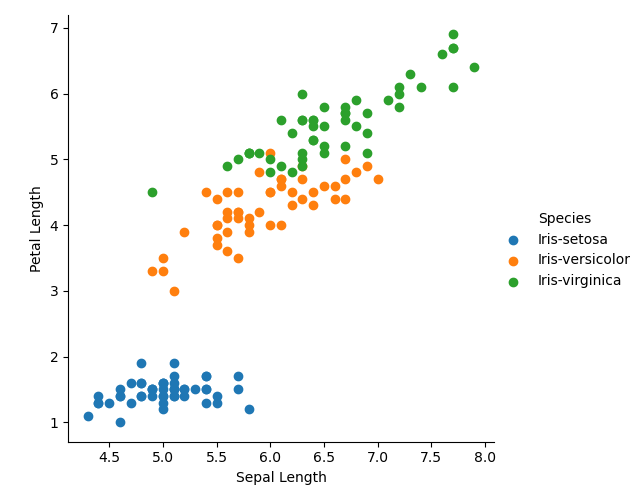
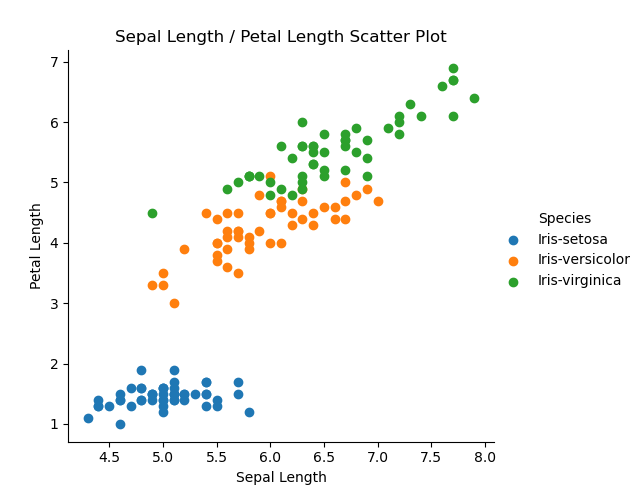
Plot Titles

diff --git a/analysis.py b/analysis.py
@@ -103,16 +103,28 @@ def histograms():
 def scatterPlots():
     
     sns.FacetGrid(df,hue="Species", height=5).map(plt.scatter, "Sepal Length", "Sepal Width" ).add_legend()
+    plt.title("Sepal Length / Sepal Width Scatter Plot")
+    plt.subplots_adjust(top=0.9)
     plt.savefig("./plots/SLSWscatterPlot.png")
-    sns.FacetGrid(df,hue="Species", height=5).map(plt.scatter, "Petal Length", "Petal Width" ).add_legend()
+
+    sns.FacetGrid(df,hue="Species", height=5).map(plt.scatter, "Petal Length", "Petal Width" ).add_legend() 
+    plt.title("Petal Length / Petal Width Scatter Plot")     
+    plt.subplots_adjust(top=0.9) 
     plt.savefig("./plots/PLPWscatterPlot.png")
+
     sns.FacetGrid(df,hue="Species", height=5).map(plt.scatter, "Sepal Length", "Petal Length").add_legend()
-    plt.savefig("./plots/SLPLscatterPlot.png")
+    plt.title("Sepal Length / Petal Length Scatter Plot")
+    plt.subplots_adjust(top=0.9)
+    plt.savefig("./plots/SLPLscatterPlot.png")  
+  
     sns.FacetGrid(df,hue="Species", height=5).map(plt.scatter, "Sepal Width" , "Petal Width" ).add_legend()
+    plt.title("Sepal Width / Petal Width Scatter Plot")
+    plt.subplots_adjust(top=0.9)
     plt.savefig("./plots/SWPWscatterPlot.png")
 
     sns.pairplot(df,hue="Species",height=3)
     plt.savefig("./plots/scatterPlot.png")
+
     plt.show()
 
 ##########################################################################
@@ -122,6 +134,7 @@ def distPlot():
     sns.histplot( df["Sepal Width" ] , kde = True, stat="density", linewidth=1, color="royalblue"  ,ax=axes[0, 1]) 
     sns.histplot( df["Petal Length"] , kde = True, stat="density", linewidth=1, color="forestgreen", ax=axes[1, 0]) 
     sns.histplot( df["Petal Width" ] , kde = True, stat="density", linewidth=1, color="violet"     , ax=axes[1, 1])
+    plt.suptitle("Combined Histograms and Distribution Estimation")
     plt.savefig("./plots/distPlot.png")
     plt.show()
 ##########################################################################
@@ -129,7 +142,7 @@ def stack():
     df.plot(kind='barh', stacked=True)  
     plt.xlabel('in cm')  
     plt.ylabel('Sample of 150 flowers') 
-    plt.title('Stacked bar graph of Iris dataset')
+    plt.title('Stacked Bar Graph')
     plt.tight_layout()
     #plt.savefig("./plots/stackPlot.png")
     plt.show() 
@@ -141,6 +154,7 @@ def boxPlots():
     sns.boxplot(x="Species", y="Sepal Width" , hue="Species", data=df, palette="bright", ax=axes[1], dodge=False)
     sns.boxplot(x="Species", y="Petal Length", hue="Species", data=df, palette="bright", ax=axes[2], dodge=False)
     sns.boxplot(x="Species", y="Petal Width" , hue="Species", data=df, palette="bright", ax=axes[3], dodge=False)
+    plt.suptitle("Box Plots")
     plt.savefig("./plots/boxPlots.png")
     plt.show()
 
@@ -150,20 +164,22 @@ def violinPlots():
     sns.violinplot(x="Species", y="Sepal Width" , hue="Species", data=df, palette="bright", ax=axes[0,1], dodge=False)
     sns.violinplot(x="Species", y="Petal Length", hue="Species", data=df, palette="bright", ax=axes[1,0], dodge=False)
     sns.violinplot(x="Species", y="Petal Width" , hue="Species", data=df, palette="bright", ax=axes[1,1], dodge=False)
+    plt.suptitle("Violin Plots")
     plt.savefig("./plots/violinPlots.png")
     plt.show()
 
 def heatMap():
     sns.heatmap(df.corr(),cmap="BuPu", annot=True)
+    plt.title("Correlation Heat Map")
     plt.savefig("./plots/hMap.png")
     plt.show()
 
 
 #dataSummary()
 #histograms()
-scatterPlots()
+#scatterPlots()
 #distPlot()
-#boxPlots()
-#violinPlots()
+boxPlots()
+violinPlots()
 #stack()
 #heatMap()
